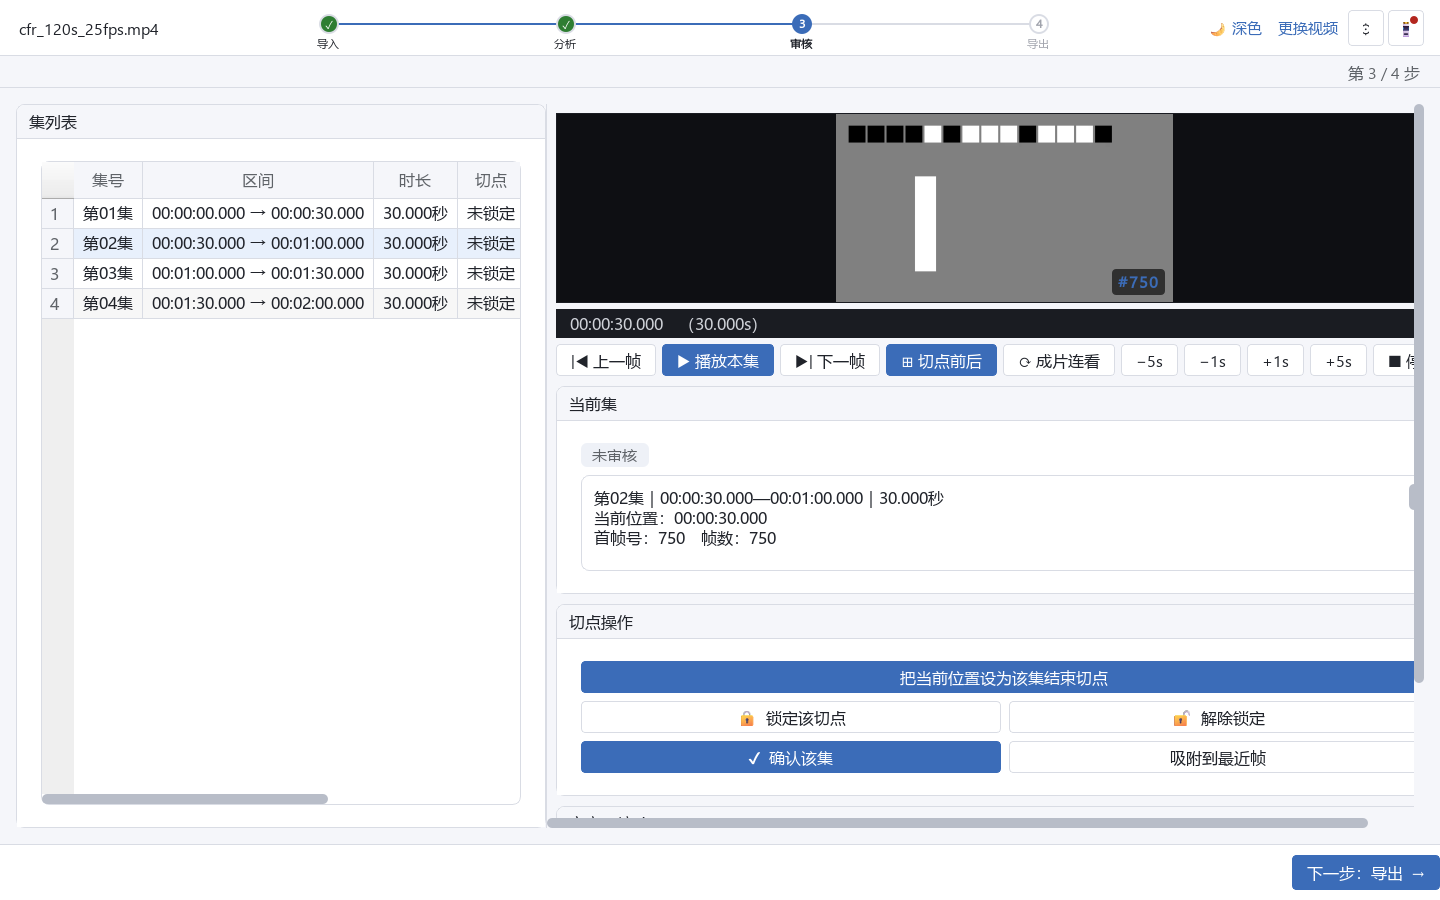
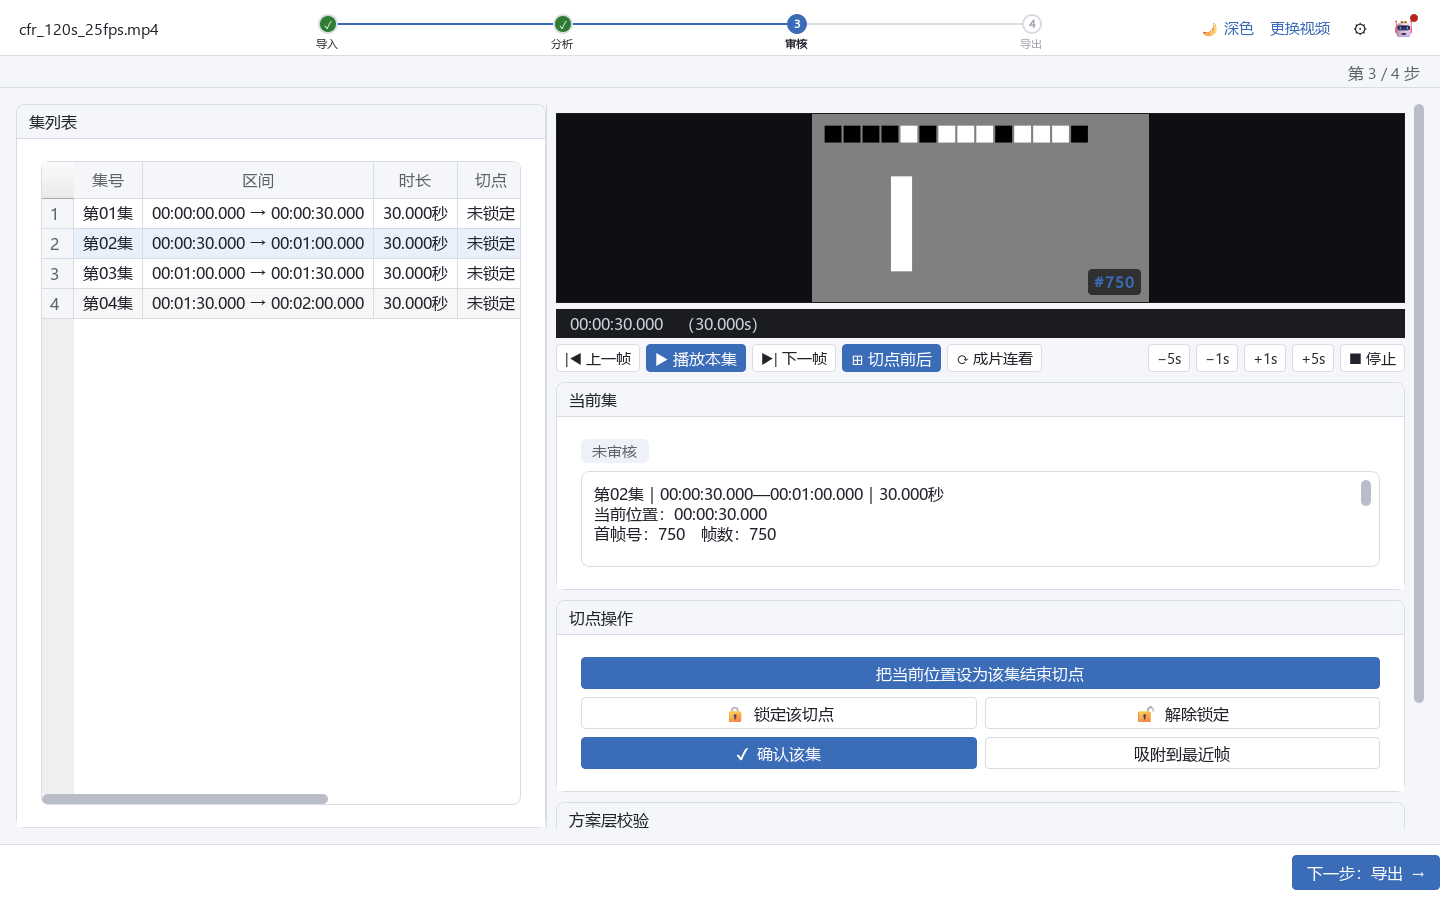
重构第6步：顶栏图标按钮 + 预览控制条溢出修复
- 新增 QPushButton[role=icon-button] 三态规则（padding 0 + 17px 字号 +
  扁平 hover 浅蓝），IconButton 36→40——修复 ⚙/🤖 被全局 14px padding
  挤成竖条的自 f0d0899 起的遗留缺陷
- 新增 role=mini 与 primary+compact 紧凑档，预览控制条 10 按钮收窄约
  100px——修复审核页「停止」按钮被推出视口、右列横向滚动
- 04-审核 截图确认：控制条全可见、切点操作完整、方案层校验标题露出
- pytest 330/29/0；gui_smoke/ui-smoke exit 0；pyflakes 干净

diff --git a/app/gui/theme.py b/app/gui/theme.py
@@ -684,6 +684,40 @@ QPushButton[role="ghost"]:hover {{
     border-radius: {RADIUS_SM}px;
 }}
 
+/* 顶栏图标按钮（⚙ / 🤖）：必须自带专属规则。
+   若只吃全局 QPushButton 的 padding: 6px 14px，36/40px 宽的按钮内容区
+   只剩 6px，Segoe UI Emoji 的大 em 字形会被横向压成竖条（f0d0899 起的
+   遗留缺陷）。扁平 + hover 浅蓝是 IconButton docstring 的既定设计。 */
+QPushButton[role="icon-button"] {{
+    font-family: {FONT_SYMBOL}, {FONT_FAMILY};
+    font-size: 17px;
+    padding: 0;
+    background: transparent;
+    border: 1px solid transparent;
+    border-radius: {RADIUS_SM}px;
+}}
+
+QPushButton[role="icon-button"]:hover {{
+    background: {PRIMARY_SOFT};
+    border-color: {PRIMARY};
+}}
+
+QPushButton[role="icon-button"]:pressed {{
+    background: {PRIMARY_HOVER};
+}}
+
+/* 预览控制条紧凑档：10 个按钮单行，默认 padding 6px 14px 时总宽
+   超过审核页右列可用宽度，「停止」会被推出视口（04-审核 截图缺陷） */
+QPushButton[role="mini"] {{
+    font-family: {FONT_SYMBOL}, {FONT_FAMILY};
+    padding: 4px 8px;
+    font-size: {FONT_SIZE_CAPTION}pt;
+}}
+
+QPushButton[role="primary"][compact="true"] {{
+    padding: 4px 8px;
+}}
+
 /* ===== 顶栏 / 状态条 / 底栏（原先散在各控件里的硬编码颜色收拢于此） ===== */
 QFrame[role="app-bar"] {{
     background: {BG_ALT};

diff --git a/app/gui/widgets/icon_button.py b/app/gui/widgets/icon_button.py
@@ -10,14 +10,14 @@ class IconButton(QPushButton):
     """圆形 / 圆角小按钮，用于顶栏图标操作。
 
     特性：
-    - 36×36 固定大小（顶栏标准）
-    - 默认扁平，hover 时浅蓝背景
+    - 40×40 固定大小（顶栏标准；36px 时 emoji 字形放不下会被压扁）
+    - 默认扁平，hover 时浅蓝背景（QSS role="icon-button"）
     - 支持 set_notify(True) 显示右上角小红点（未读提示）
     """
 
     def __init__(self, text: str = "", parent=None) -> None:
         super().__init__(text, parent)
-        self.setFixedSize(QSize(36, 36))
+        self.setFixedSize(QSize(40, 40))
         self.setCursor(Qt.CursorShape.PointingHandCursor)
         self.setFocusPolicy(Qt.FocusPolicy.NoFocus)
         self.setProperty("role", "icon-button")

diff --git a/app/gui/widgets/media_preview.py b/app/gui/widgets/media_preview.py
@@ -73,9 +73,14 @@ class MediaPreview(QWidget):
             b.setMinimumWidth(0)
             if b in (self.btn_play, self.btn_boundary):
                 b.setProperty("role", "primary")
+                b.setProperty("compact", "true")   # QSS: padding 4px 8px
                 # primary 在 QSS 里要重新 polish 才生效
                 b.style().unpolish(b)
                 b.style().polish(b)
+            else:
+                # 紧凑档：控制条 10 个按钮单行，默认 padding 会把「停止」
+                # 挤出审核页右列视口（QSS role="mini"）
+                b.setProperty("role", "mini")
 
         controls = QHBoxLayout()
         controls.setSpacing(6)
